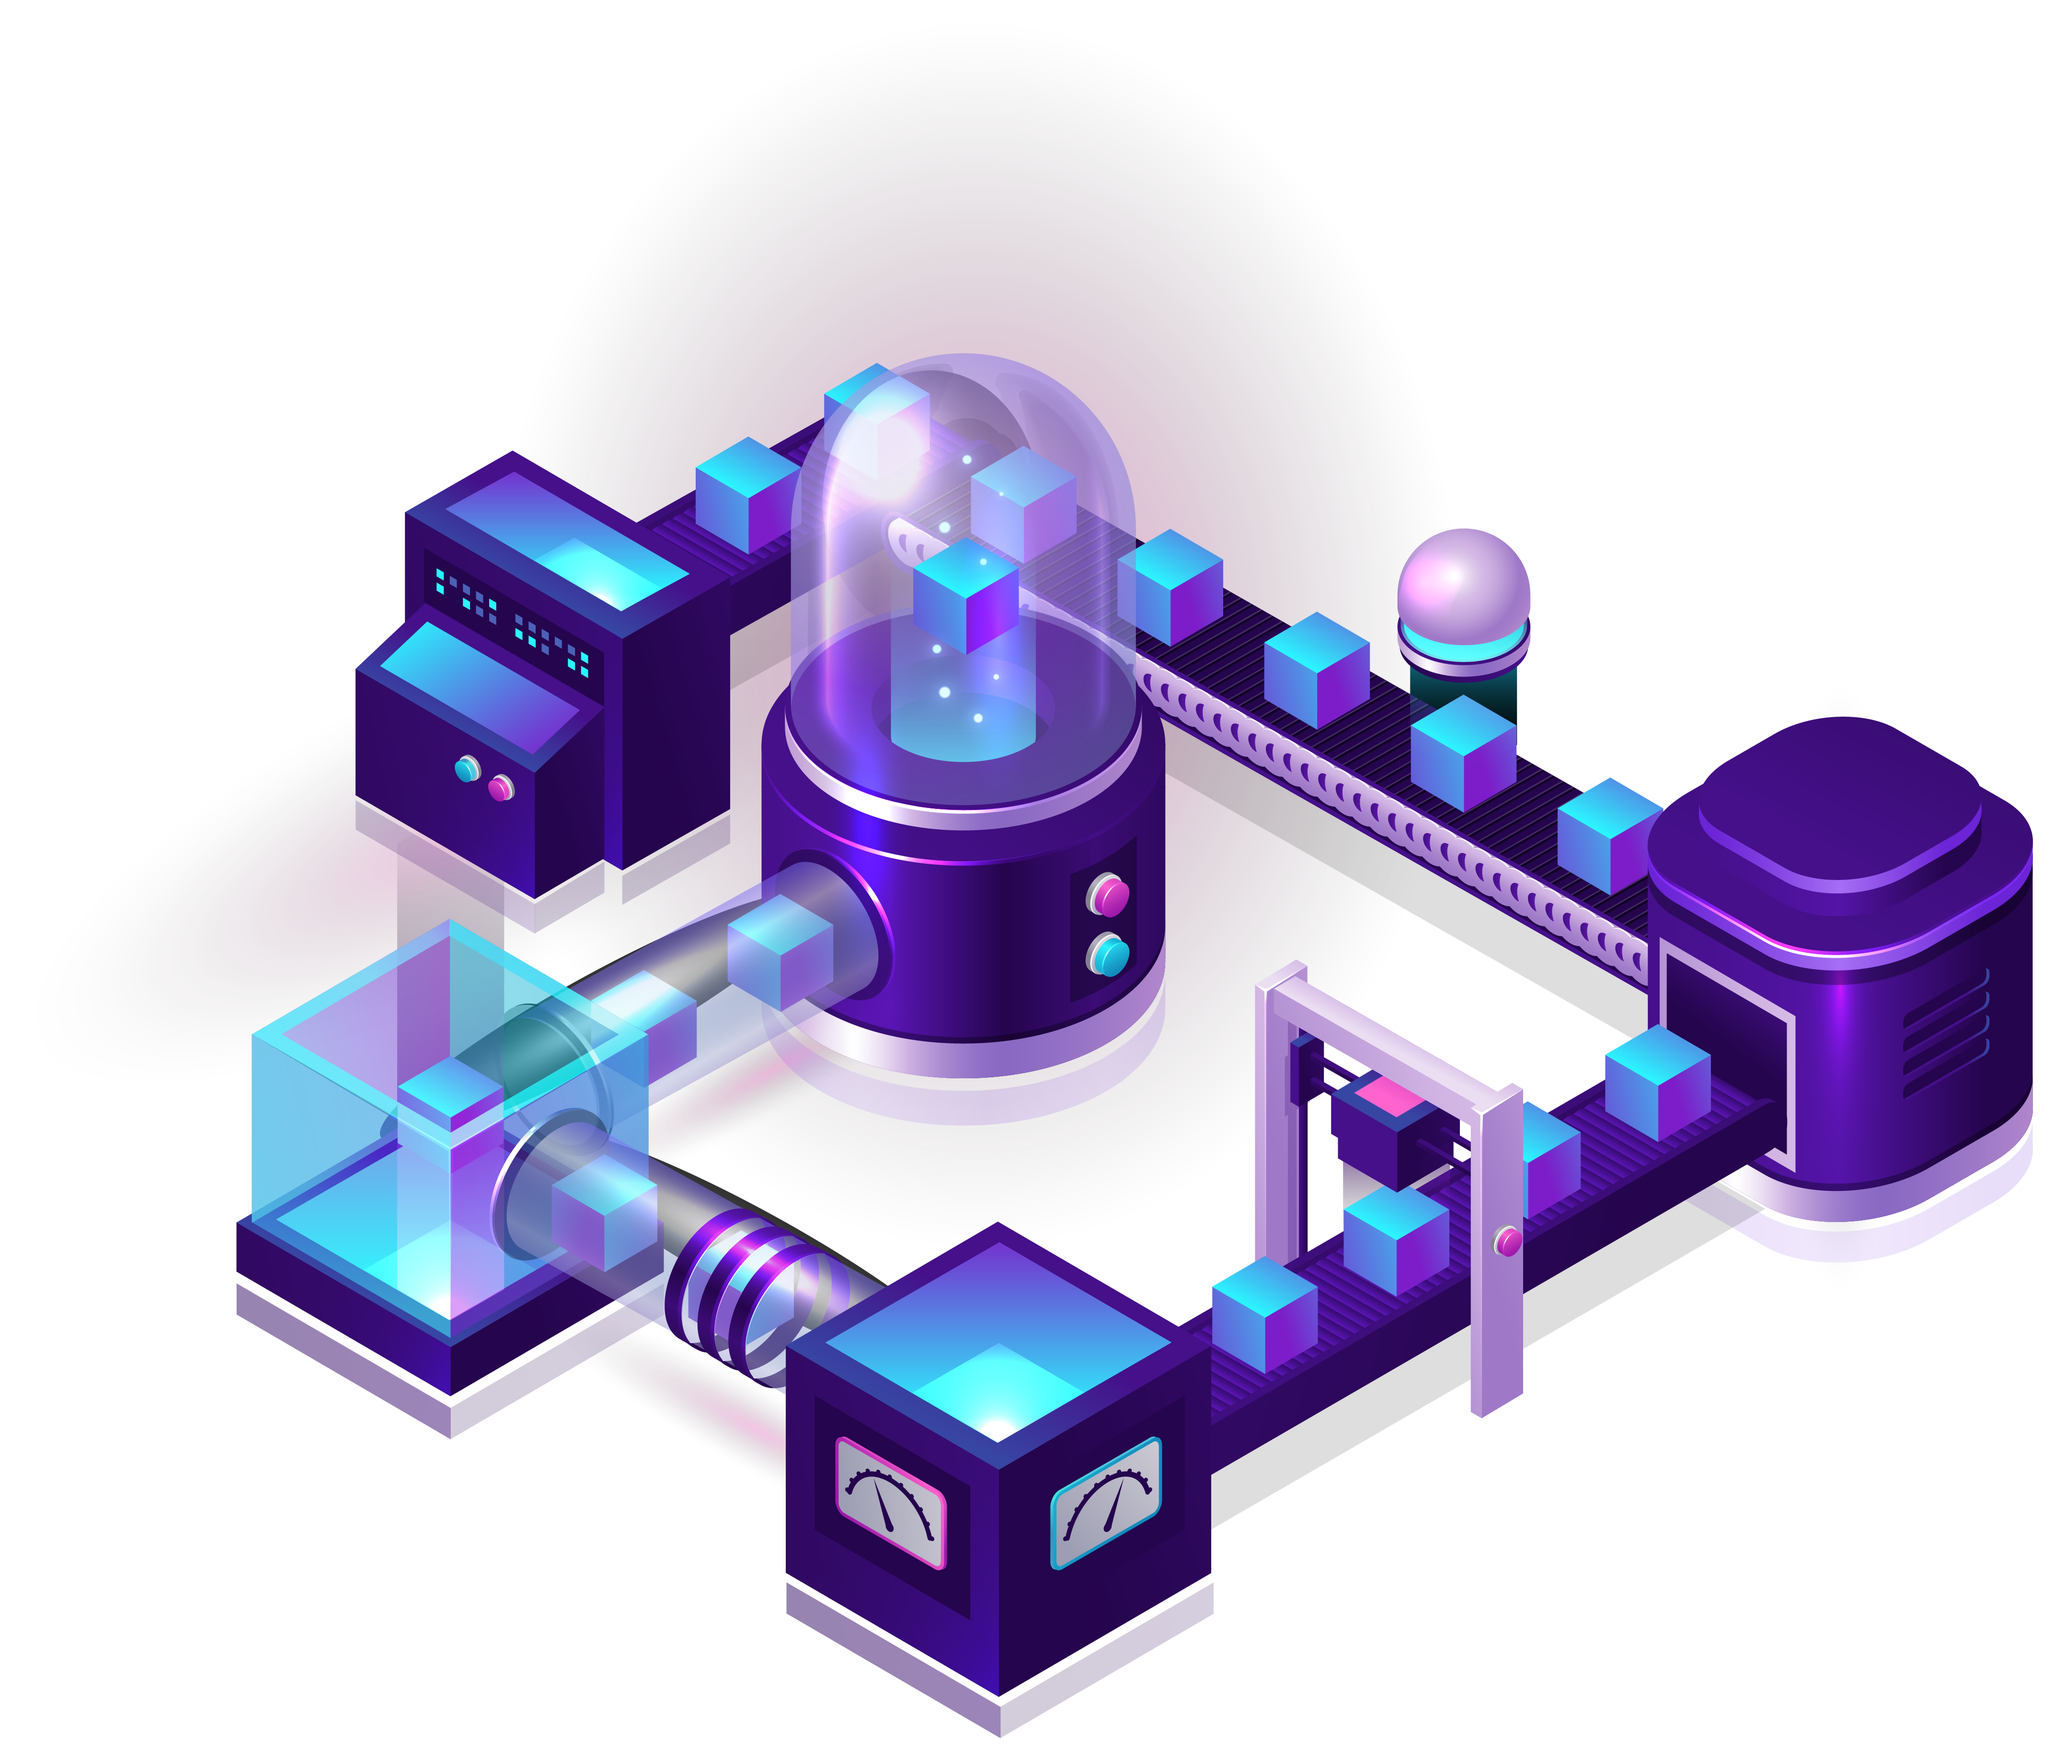
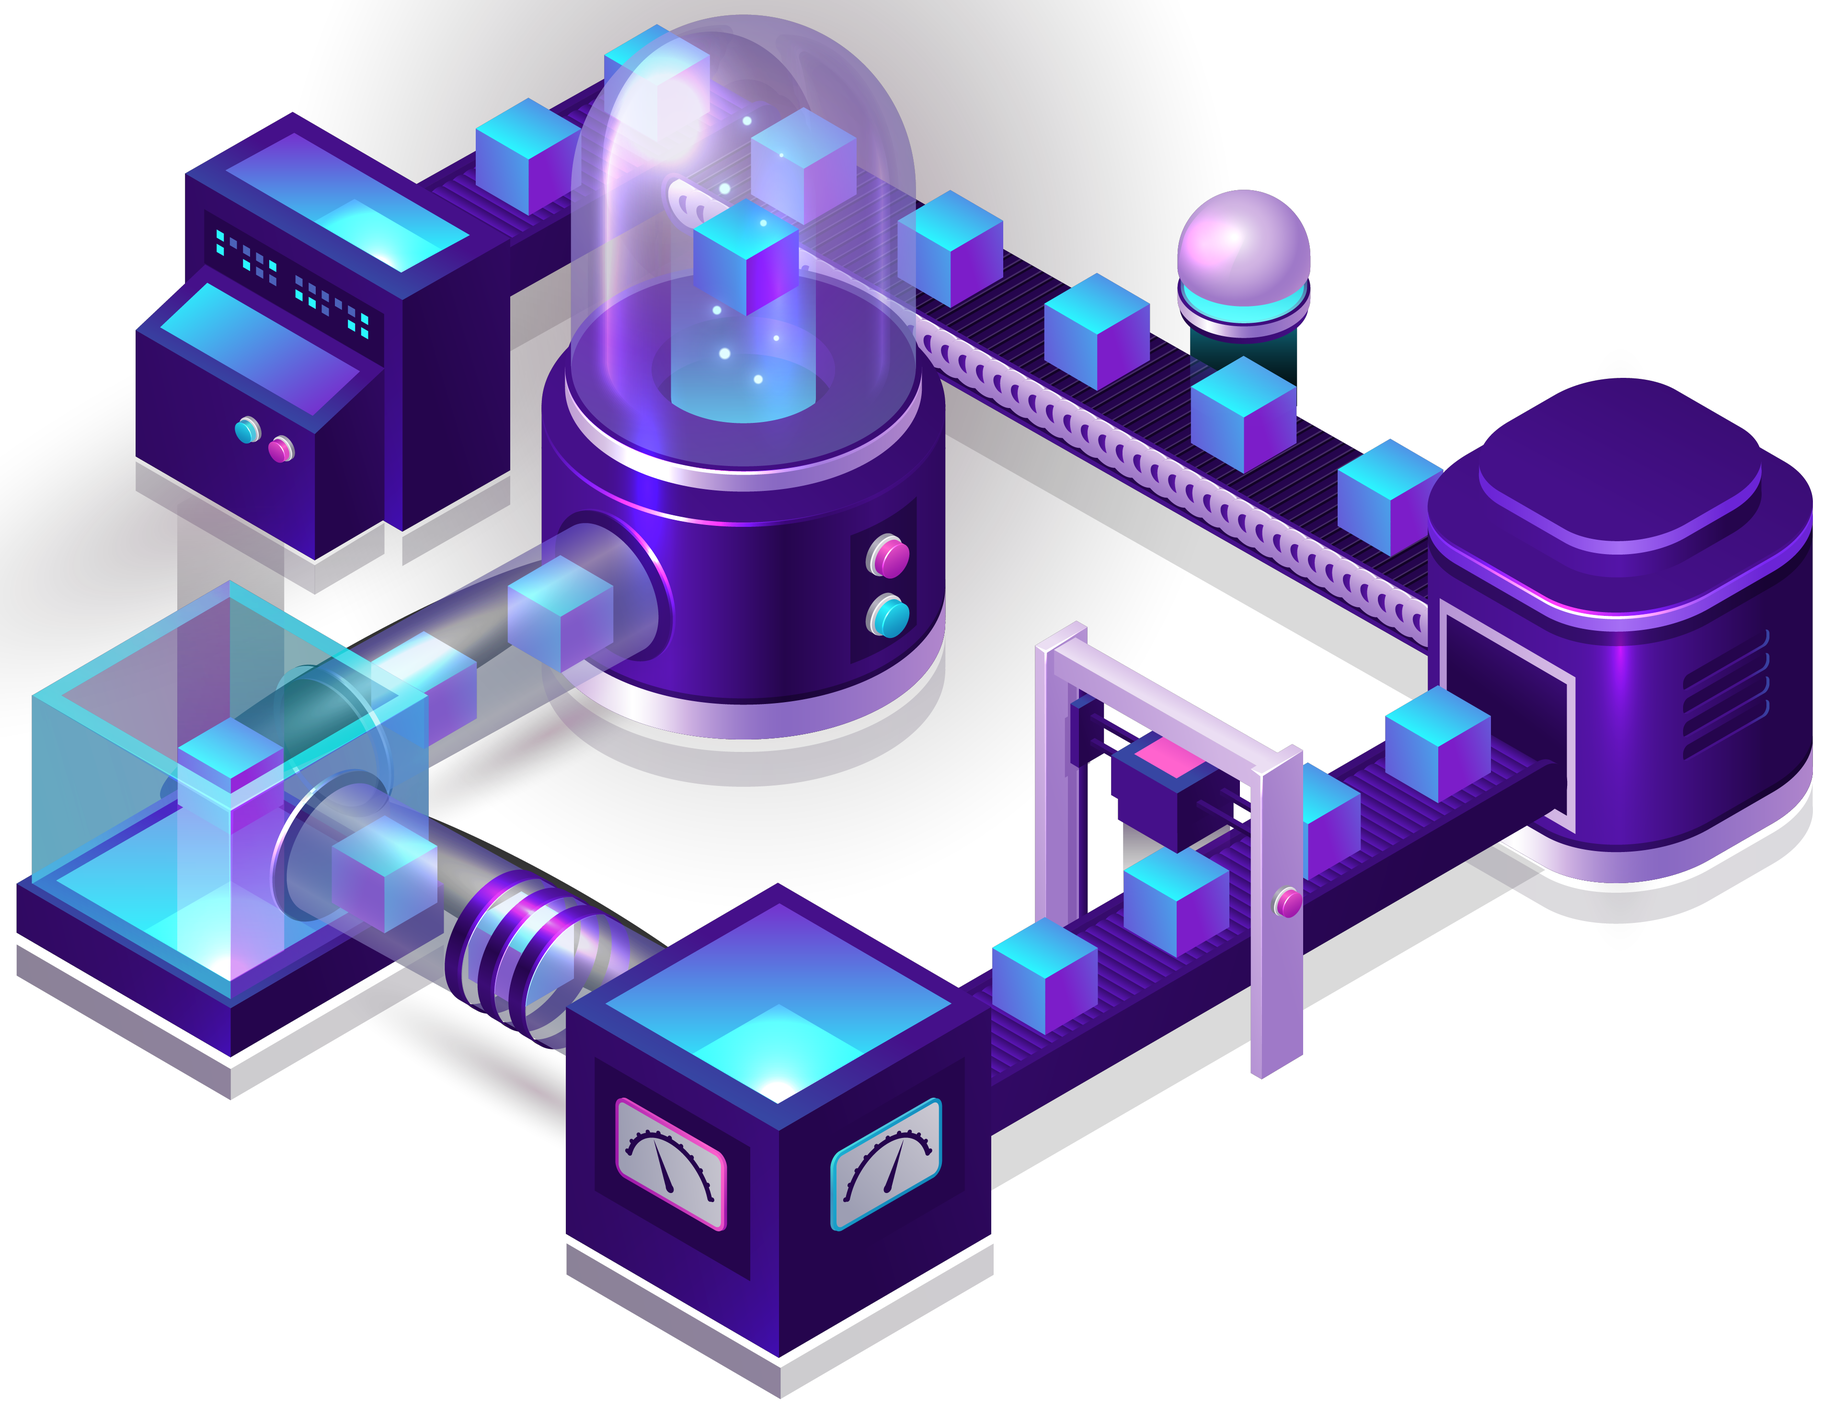
Added Illustration in Versatile Token Partial

diff --git a/src/partials/VersatileToken.js b/src/partials/VersatileToken.js
@@ -9,15 +9,15 @@ export default function VersatileToken() {
             data-w-id="649dbab4-e00a-e03a-732f-5ed95dca54ab"
             className="s6-info-container"
           >
-            <h2 className="h2 is-small-h2">
-                A Versatile Token
-            </h2>
+            <h2 className="h2 is-small-h2">A Versatile Token</h2>
             <p className="p is-s6-p">
-            Our on-platform liquidity pools let you seamlessly borrow, lend or swap your Real Estate Tokens.
-            Our on-platform liquidity pools let you seamlessly borrow, lend or swap your Real Estate Tokens.
+              Our on-platform liquidity pools let you seamlessly borrow, lend or
+              swap your Real Estate Tokens. Our on-platform liquidity pools let
+              you seamlessly borrow, lend or swap your Real Estate Tokens.
             </p>
             <p className="p is-s6-p">
-            Our on-platform liquidity pools let you seamlessly borrow, lend or swap your Real Estate Tokens.
+              Our on-platform liquidity pools let you seamlessly borrow, lend or
+              swap your Real Estate Tokens.
             </p>
             <a
               href="https://discord.com/invite/gRtqvfqW4V"
@@ -27,59 +27,14 @@ export default function VersatileToken() {
             </a>
           </div>
           <div className="s6-image-wrapper">
-            <div
-              data-w-id="13a914f3-4ae0-191c-55b4-82b0730137d9"
-              className="s6-image-container"
-            >
+            <div>
               <img
-                src="images/Graphic-Meme-Cat.png"
-                loading="lazy"
-                sizes="(max-width: 479px) 90vw, (max-width: 991px) 72vw, (max-width: 1279px) 41vw, (max-width: 1439px) 42vw, 598px"
-                srcSet="
-            images/Graphic-Meme-Cat-p-800.png   800w,
-            images/Graphic-Meme-Cat-p-1080.png 1080w,
-            images/Graphic-Meme-Cat.png        1412w
-          "
-                alt=""
-                className="s6-cat-image"
-              />
-              <img
-                src="images/Graphic-Meme-Message.png"
-                loading="lazy"
-                sizes="(max-width: 479px) 90vw, (max-width: 991px) 72vw, (max-width: 1279px) 41vw, (max-width: 1439px) 42vw, 598px"
-                srcSet="
-            images/Graphic-Meme-Message-p-500.png   500w,
-            images/Graphic-Meme-Message-p-800.png   800w,
-            images/Graphic-Meme-Message-p-1080.png 1080w,
-            images/Graphic-Meme-Message.png        1412w
-          "
-                alt=""
-                className="s6-message-image"
-              />
-              <img
-                src="images/Graphic-Meme-Card.png"
-                loading="lazy"
-                sizes="(max-width: 479px) 90vw, (max-width: 991px) 72vw, (max-width: 1279px) 41vw, (max-width: 1439px) 42vw, 598px"
-                srcSet="
-            images/Graphic-Meme-Card-p-500.png   500w,
-            images/Graphic-Meme-Card-p-800.png   800w,
-            images/Graphic-Meme-Card-p-1080.png 1080w,
-            images/Graphic-Meme-Card.png        1412w
-          "
-                alt=""
-                className="s6-card-image"
-              />
-              <img
-                src="images/Graphic-Meme-Rocket.png"
-                loading="lazy"
-                sizes="(max-width: 479px) 90vw, (max-width: 991px) 72vw, (max-width: 1279px) 41vw, (max-width: 1439px) 42vw, 598px"
-                srcSet="
-            images/Graphic-Meme-Rocket-p-500.png  500w,
-            images/Graphic-Meme-Rocket-p-800.png  800w,
-            images/Graphic-Meme-Rocket.png       1412w
-          "
-                alt=""
-                className="s6-rocket-image"
+                src="assets/img/vt.png"
+                className="s3-box-image"
+                style={{
+                  width: "85%",
+                  margin: "auto",
+                }}
               />
             </div>
           </div>
